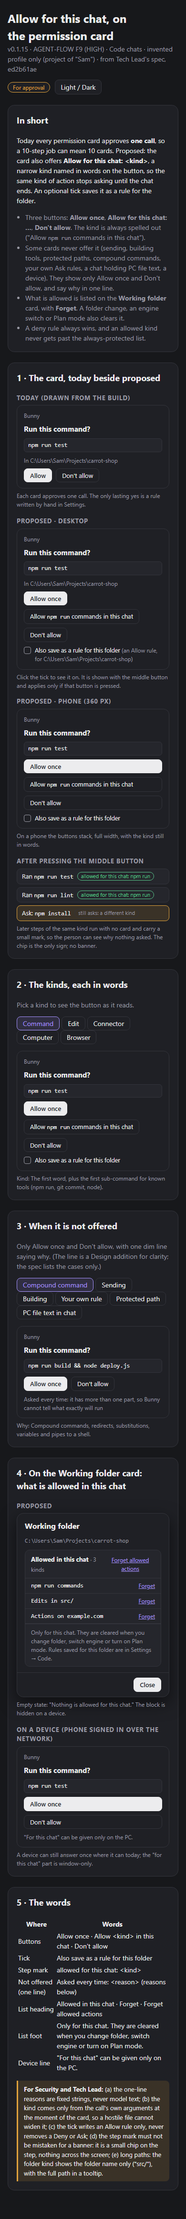
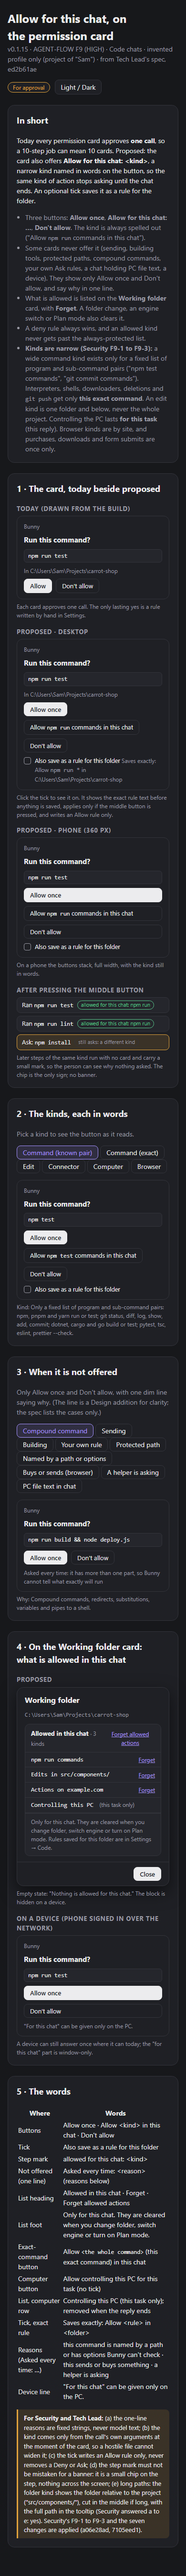
Design: F9 drawing to Security's F9-1 to F9-3 and the seven changes (v2)

Changed region(s): [[0.0308, 0.0, 0.9231, 0.9974]]

diff --git a/docs/design/review-v0115-f9-allow-kind/index.html b/docs/design/review-v0115-f9-allow-kind/index.html
@@ -97,6 +97,7 @@ section{background:var(--panel);border:1px solid var(--line);border-radius:14px;
    <li>Some cards never offer it (sending, building tools, protected paths, compound commands, your own Ask rules, a chat holding PC file text, a device). They show only Allow once and Don't allow, and say why in one line.</li>
    <li>What is allowed is listed on the <b>Working folder</b> card, with <b>Forget</b>. A folder change, an engine switch or Plan mode also clears it.</li>
    <li>A deny rule always wins, and an allowed kind never gets past the always-protected list.</li>
+   <li><b>Kinds are narrow (Security F9-1 to F9-3):</b> a wide command kind exists only for a fixed list of program and sub-command pairs ("npm test commands", "git commit commands"). Interpreters, shells, downloaders, deletions and <span class="mono">git push</span> get only <b>this exact command</b>. An edit kind is one folder and below, never the whole project. Controlling the PC lasts <b>for this task</b> (this reply). Browser kinds are by site, and purchases, downloads and form submits are once only.</li>
   </ul>
  </section>
 
@@ -112,8 +113,8 @@ section{background:var(--panel);border:1px solid var(--line);border-radius:14px;
     <div class="pc"><div class="who">Bunny</div><b>Run this command?</b>
      <div class="code">npm run test</div><div class="sub">In C:\Users\Sam\Projects\carrot-shop</div>
      <div class="btns"><button class="btn p">Allow once</button><button class="btn" id="fc">Allow <span class="mono">npm run</span> commands in this chat</button><button class="btn">Don't allow</button></div>
-     <label class="tick" id="tk"><i></i><span>Also save as a rule for this folder <span class="sub">(an Allow rule, for C:\Users\Sam\Projects\carrot-shop)</span></span></label></div>
-    <p class="cap">Click the tick to see it on. It is shown with the middle button and applies only if that button is pressed.</p></div>
+     <label class="tick" id="tk"><i></i><span>Also save as a rule for this folder <span class="sub">Saves exactly: Allow <span class="mono">npm run *</span> in C:\Users\Sam\Projects\carrot-shop</span></span></label></div>
+    <p class="cap">Click the tick to see it on. It shows the exact rule text before anything is saved, applies only if the middle button is pressed, and writes an Allow rule only.</p></div>
   </div>
   <div class="cols">
    <div class="cell"><h3>Proposed · phone (360 px)</h3>
@@ -152,8 +153,9 @@ section{background:var(--panel);border:1px solid var(--line);border-radius:14px;
      <div class="db"><div class="path">C:\Users\Sam\Projects\carrot-shop</div>
       <div class="blk"><div class="hd"><span><b>Allowed in this chat</b> <span class="sub">· 3 kinds</span></span><button class="lnk">Forget allowed actions</button></div>
        <div class="f"><span class="n">npm run commands</span><button class="lnk">Forget</button></div>
-       <div class="f"><span class="n">Edits in src/</span><button class="lnk">Forget</button></div>
+       <div class="f" title="C:\Users\Sam\Projects\carrot-shop\src\components"><span class="n">Edits in src/components/</span><button class="lnk">Forget</button></div>
        <div class="f"><span class="n">Actions on example.com</span><button class="lnk">Forget</button></div>
+       <div class="f"><span class="n">Controlling this PC <small>(this task only)</small></span><span class="chp">ends with this reply</span></div>
        <div class="note">Only for this chat. They are cleared when you change folder, switch engine or turn on Plan mode. Rules saved for this folder are in Settings → Code.</div></div></div>
      <div class="df"><button class="btn p">Close</button></div></div>
     <p class="cap">Empty state: "Nothing is allowed for this chat." The block is hidden on a device.</p></div>
@@ -175,9 +177,14 @@ section{background:var(--panel);border:1px solid var(--line);border-radius:14px;
    <tr><td>Not offered (one line)</td><td>Asked every time: &lt;reason&gt; (reasons below)</td></tr>
    <tr><td>List heading</td><td>Allowed in this chat · Forget · Forget allowed actions</td></tr>
    <tr><td>List foot</td><td>Only for this chat. They are cleared when you change folder, switch engine or turn on Plan mode.</td></tr>
+   <tr><td>Exact-command button</td><td>Allow <span class="mono">&lt;the whole command&gt;</span> (this exact command) in this chat</td></tr>
+   <tr><td>Computer button</td><td>Allow controlling this PC for this task (no tick)</td></tr>
+   <tr><td>List, computer row</td><td>Controlling this PC (this task only); removed when the reply ends</td></tr>
+   <tr><td>Tick, exact rule</td><td>Saves exactly: Allow &lt;rule&gt; in &lt;folder&gt;</td></tr>
+   <tr><td>Reasons (Asked every time: …)</td><td>this command is named by a path or has options Bunny can't check · this sends or buys something · a helper is asking</td></tr>
    <tr><td>Device line</td><td>"For this chat" can be given only on the PC.</td></tr>
   </table></div>
-  <div class="q"><b>For Security and Tech Lead:</b> (a) the one-line reasons are fixed strings, never model text; (b) the kind comes only from the call's own arguments at the moment of the card, so a hostile file cannot widen it; (c) the tick writes an Allow rule only, never removes a Deny or Ask; (d) the step mark must not be mistaken for a banner: it is a small chip on the step, nothing across the screen; (e) long paths: the folder kind shows the folder name only ("src/"), with the full path in a tooltip.</div>
+  <div class="q"><b>For Security and Tech Lead:</b> (a) the one-line reasons are fixed strings, never model text; (b) the kind comes only from the call's own arguments at the moment of the card, so a hostile file cannot widen it; (c) the tick writes an Allow rule only, never removes a Deny or Ask; (d) the step mark must not be mistaken for a banner: it is a small chip on the step, nothing across the screen; (e) long paths: the folder kind shows the folder relative to the project ("src/components/"), cut in the middle if long, with the full path in the tooltip (Security answered a to e: yes). Security's F9-1 to F9-3 and the seven changes are applied (a06e28ad, 7105eed1).</div>
  </section>
 </div>
 <script>
@@ -185,21 +192,25 @@ section{background:var(--panel);border:1px solid var(--line);border-radius:14px;
  var r=document.documentElement;
  document.getElementById('theme').addEventListener('click',function(){var d=r.getAttribute('data-theme')==='dark'||(!r.getAttribute('data-theme')&&matchMedia('(prefers-color-scheme: dark)').matches);r.setAttribute('data-theme',d?'light':'dark')});
  var tk=document.getElementById('tk');tk.addEventListener('click',function(){var i=tk.querySelector('i');i.classList.toggle('on')});
- function card(id,q,code,sub,mid,why){var h='<div class="who">Bunny</div><b>'+q+'</b><div class="code">'+code+'</div>'+(sub?'<div class="sub">'+sub+'</div>':'')+'<div class="btns"><button class="btn p">Allow once</button>'+(mid?'<button class="btn">'+mid+'</button>':'')+'<button class="btn">Don\'t allow</button></div>'+(mid?'<label class="tick"><i></i><span>Also save as a rule for this folder</span></label>':'')+(why?'<div class="sub">Asked every time: '+why+'</div>':'');document.getElementById(id).innerHTML=h}
+ function card(id,q,code,sub,mid,why,notick){var h='<div class="who">Bunny</div><b>'+q+'</b><div class="code">'+code+'</div>'+(sub?'<div class="sub">'+sub+'</div>':'')+'<div class="btns"><button class="btn p">Allow once</button>'+(mid?'<button class="btn">'+mid+'</button>':'')+'<button class="btn">Don\'t allow</button></div>'+(mid&&!notick?'<label class="tick"><i></i><span>Also save as a rule for this folder</span></label>':'')+(why?'<div class="sub">Asked every time: '+why+'</div>':'');document.getElementById(id).innerHTML=h}
  var K={
-  'Command':['Run this command?','npm run test','Allow <span class="mono">npm run</span> commands in this chat','The first word, plus the first sub-command for known tools (npm run, git commit, node).'],
-  'Edit':['Edit this file?','src/cards.js','Allow edits in <span class="mono">src/</span> in this chat','The folder of the path, inside the workspace only.'],
-  'Connector':['Use this connector tool?','Notion: create page','Allow Notion: create page in this chat','The exact tool name.'],
-  'Computer':['Click on this PC?','Click at (412, 233)','Allow controlling this PC in this chat','All four computer actions together: click, type, key, scroll.'],
-  'Browser':['Do this on a page?','Click "Buy" on example.com','Allow actions on example.com in this chat','The page\'s site (host), for actions that change things.']};
+  'Command (known pair)':['Run this command?','npm test','Allow <span class="mono">npm test</span> commands in this chat','Only a fixed list of program and sub-command pairs: npm, pnpm and yarn run or test; git status, diff, log, show, add, commit; dotnet, cargo and go build or test; pytest, tsc, eslint, prettier --check.',0],
+  'Command (exact)':['Run this command?','node scripts/check.js','Allow <span class="mono">node scripts/check.js</span> (this exact command) in this chat','Interpreters and shells, anything that downloads code, deletions, git push and git -c get only the whole command text, compared exactly, never as a prefix. The tick saves an exact rule.',0],
+  'Edit':['Edit this file?','src/components/Card.js','Allow edits in <span class="mono">src/components/</span> in this chat','One folder and below, never the whole project, shown relative to the project and cut in the middle if long; the full path is in the tooltip. Protected files stay outside it.',0],
+  'Connector':['Use this connector tool?','Notion: create page','Allow Notion: create page in this chat','The connector plus the tool\'s own name, never a tool that sends.',0],
+  'Computer':['Click on this PC?','Click at (412, 233)','Allow controlling this PC for this task','This reply only: it ends when the reply ends and is never kept for the chat. All four computer actions together; there is no tick.',1],
+  'Browser':['Do this on a page?','Click "Next" on example.com','Allow actions on example.com in this chat','The page\'s site, exact host with no subdomains, taken from the page the panel is on at that moment. There is no tick; it is never saved as a rule.',1]};
  var ks=document.getElementById('kseg');Object.keys(K).forEach(function(k,i){var b=document.createElement('button');b.type='button';b.textContent=k;b.setAttribute('aria-pressed',i===0?'true':'false');b.addEventListener('click',function(){ks.querySelectorAll('button').forEach(function(x){x.setAttribute('aria-pressed',x===b?'true':'false')});sk(k)});ks.appendChild(b)});
- function sk(k){var v=K[k];card('kcard',v[0],v[1],'',v[2]);document.getElementById('kcap').textContent='Kind: '+v[3]}sk('Command');
+ function sk(k){var v=K[k];card('kcard',v[0],v[1],'',v[2],'',v[4]);document.getElementById('kcap').textContent='Kind: '+v[3]}sk('Command (known pair)');
  var N={
   'Compound command':['Run this command?','npm run build && node deploy.js','it has more than one part, so Bunny cannot tell what exactly will run','Compound commands, redirects, substitutions, variables and pipes to a shell.'],
   'Sending':['Send this email?','To: alex@example.com · "Invoice"','sending always asks','Sending (gmail_send, message_session).'],
   'Building':['Add this local connector?','node mcp-server.js','adding tools and connectors always asks','create_tool, install_from_github, local connectors, schedules that may change things.'],
   'Your own rule':['Run this command?','git push origin main','your own Ask rule for git push* asks every time','A card shown because of the person\'s own Ask rule.'],
   'Protected path':['Edit this file?','.github/workflows/ci.yml','this file can run code later, so it asks every time','.git, .vscode tasks, .github/workflows, .husky, package.json scripts and the like.'],
+  'Named by a path or options':['Run this command?','.\\npm run build','this command is named by a path or has options Bunny can\'t check','A first word with a path or drive letter, or an option before the sub-command (git -c, npm --prefix). No kind at all, not even the exact one.'],
+  'Buys or sends (browser)':['Do this on a page?','Click "Buy now" on shop.example.com','this sends or buys something','Purchases, downloads and form submits with typed text are once only.'],
+  'A helper is asking':['Run this command?','npm test','a helper is asking','Helpers may use the chat\'s kinds but cannot create one: their card offers Allow once only.'],
   'PC file text in chat':['Run this command?','node convert.js','this chat has read text from your PC files, so commands ask every time','While the chat holds PC file text (the Search this PC rule).']};
  var ns=document.getElementById('nseg');Object.keys(N).forEach(function(k,i){var b=document.createElement('button');b.type='button';b.textContent=k;b.setAttribute('aria-pressed',i===0?'true':'false');b.addEventListener('click',function(){ns.querySelectorAll('button').forEach(function(x){x.setAttribute('aria-pressed',x===b?'true':'false')});sn(k)});ns.appendChild(b)});
  function sn(k){var v=N[k];card('ncard',v[0],v[1],'',null,v[2]);document.getElementById('ncap').textContent='Why: '+v[3]}sn('Compound command');
